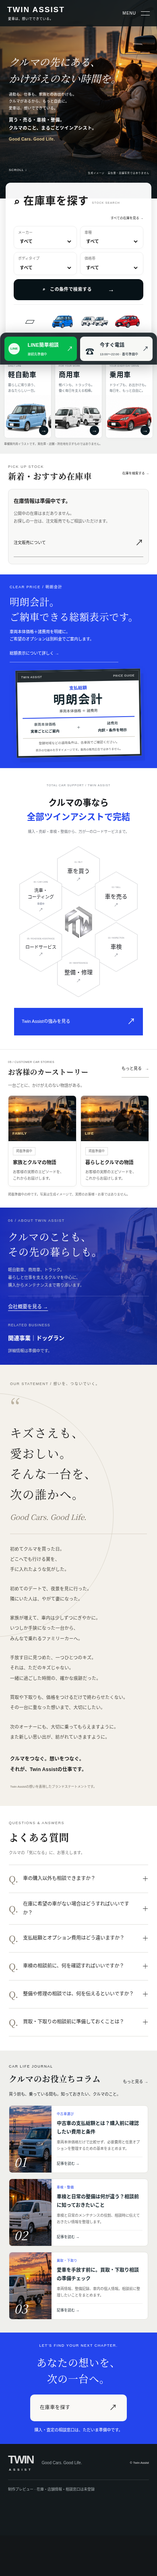
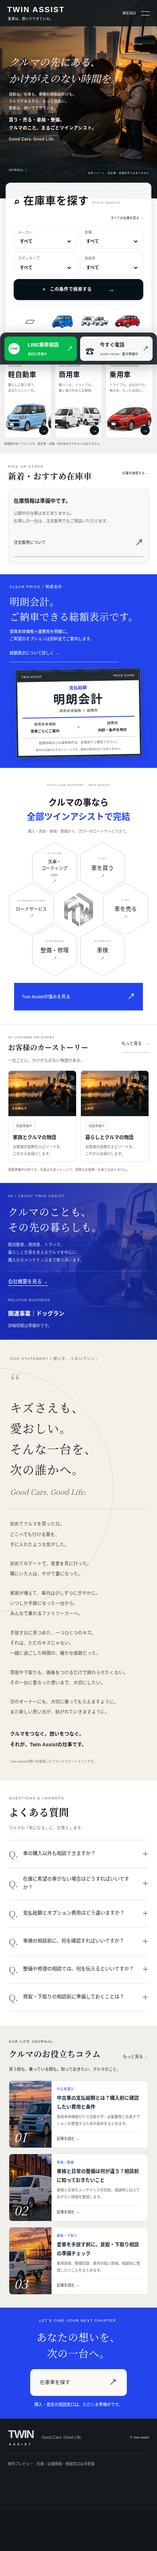
Match reference honeycomb placement with two upper and lower cells

diff --git a/public/refinement.css b/public/refinement.css
@@ -94,3 +94,14 @@ header,.detail-header{background:#101719e8}footer,.closing,.detail-consult{backg
 .about-image{background:linear-gradient(90deg,#172bbcfa,#1735c8a6),url('/images/lifestyle-concept.png') center/cover}
 @media(max-width:767px){.strengths-stacked .honeycomb-six{max-width:390px}.honeycomb-six .hex-inner{gap:6px;padding:5px}.honeycomb-six .hex-inner strong{font-size:14px;letter-spacing:0}.honeycomb-six .hex-road .hex-inner strong,.honeycomb-six .hex-wash .hex-inner strong{font-size:11px}.honeycomb-six .hex-en{font-size:5px;letter-spacing:0}.honeycomb-six .hex-arrow{font-size:11px}.honeycomb-six .hex-core{padding:8px}.honeycomb-six .hex-inner .wash-coming{font-size:6px}.strengths-scroll-rail nav{gap:5px}.strengths-scroll-rail nav a{gap:3px;font-size:10px}.strengths-scroll-rail nav small{font-size:7px}}
 @media(prefers-reduced-motion:reduce){.honeycomb-six .hex-node{transition:none}}
+/* Reference layout: two above, one on each side, two below. */
+.strengths-stacked .honeycomb-six{aspect-ratio:1.06;max-width:540px}
+.honeycomb-six .hex-node{width:31%;height:38%;clip-path:polygon(50% 0,100% 25%,100% 75%,50% 100%,0 75%,0 25%)}
+.honeycomb-six .hex-buy{left:51%;top:1%;right:auto;bottom:auto}
+.honeycomb-six .hex-sell{left:67%;top:31%;right:auto;bottom:auto}
+.honeycomb-six .hex-inspection{left:51%;top:61%;right:auto;bottom:auto}
+.honeycomb-six .hex-maintenance{left:18%;top:61%;right:auto;bottom:auto}
+.honeycomb-six .hex-road{left:2%;top:31%;right:auto;bottom:auto}
+.honeycomb-six .hex-wash{left:18%;top:1%;right:auto;bottom:auto}
+.honeycomb-six .hex-core{left:34.5%;top:31%;width:31%;height:38%;background:none;clip-path:none;padding:12px}
+@media(max-width:767px){.strengths-stacked .honeycomb-six{max-width:390px}.honeycomb-six .hex-core{padding:8px}}
